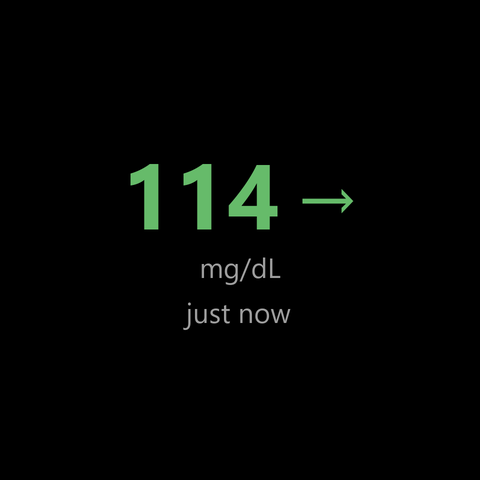
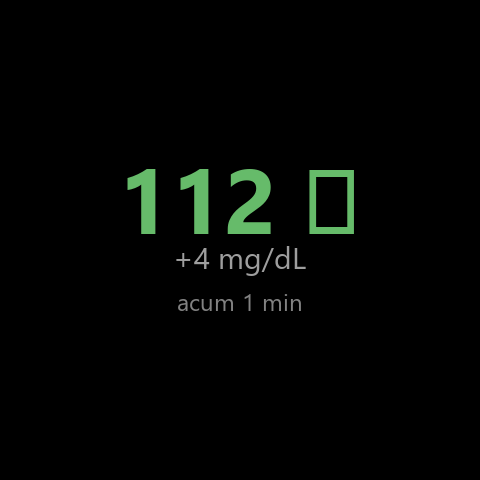
feat(site): showcase glucose delta across widgets, tile, and complication

Changed region(s): [[0.375, 0.3438, 0.625, 0.6875], [0.625, 0.3438, 0.75, 0.5], [0.25, 0.3438, 0.3438, 0.5]]

diff --git a/site/index.html b/site/index.html
@@ -1229,6 +1229,7 @@
       <div class="hero-features-chips">
         <span class="chip-item">🔒 Fără internet (<strong>Local 100%</strong>)</span>
         <span class="chip-item">⚡ Push instant (<strong>Baterie protejată</strong>)</span>
+        <span class="chip-item">📈 Variație Delta (<strong>+ / - configurabil</strong>)</span>
         <span class="chip-item">🆓 Gratuit &amp; <strong>Open Source (GPL)</strong></span>
       </div>
 
@@ -1329,10 +1330,10 @@
           <h3 data-lang="ro">1. Complicație pe Cadran</h3>
           <h3 data-lang="en">1. Watch Face Complication</h3>
           <p data-lang="ro">
-            Adaugă slotul „Glucose” pe cadranul tău preferat pentru a vedea valoarea și săgeata de trend de fiecare dată când ridici încheietura.
+            Adaugă slotul „Glucose” pe cadranul tău preferat pentru a vedea glicemia, săgeata de trend și variația Delta (+ / -) de fiecare dată când ridici încheietura.
           </p>
           <p data-lang="en">
-            Add the "Glucose" complication to any slot on your favorite watch face for glanceable readings every time you check the time.
+            Add the "Glucose" complication to any slot on your favorite watch face for glanceable readings, trend arrow, and numeric Delta (+ / -) every time you check the time.
           </p>
         </div>
 
@@ -1343,10 +1344,10 @@
           <h3 data-lang="ro">2. Card Dedicat (Tile la un Swipe)</h3>
           <h3 data-lang="en">2. Dedicated Watch Tile</h3>
           <p data-lang="ro">
-            Glisează o singură dată de pe cadran pentru cardul CGM Glance cu cifre mari, colorate în funcție de țintă (verde, galben sau roșu).
+            Glisează o singură dată de pe cadran pentru cardul CGM Glance cu cifre mari, colorate în funcție de țintă, și variația recentă Delta (+4 mg/dL).
           </p>
           <p data-lang="en">
-            Swipe once from your watch face for high-contrast glucose numbers, colored by range (in-target green, high amber, low red).
+            Swipe once from your watch face for high-contrast glucose numbers, range colors, and recent Delta change (+4 mg/dL).
           </p>
         </div>
 
@@ -1357,10 +1358,10 @@
           <h3 data-lang="ro">3. Aplicație Completă pe Ceas</h3>
           <h3 data-lang="en">3. Full Watch App</h3>
           <p data-lang="ro">
-            Apasă pe complicație sau pe card pentru a deschide ecranul detaliat cu sursa senzorului, unitatea mg/dL și minutele de la citire.
+            Apasă pe complicație sau pe card pentru a deschide ecranul detaliat cu valoarea, trendul, variația Delta și vechimea exactă a citirii.
           </p>
           <p data-lang="en">
-            Tap the complication or tile to open the full watch view with sensor origin, mg/dL unit, and reading timestamp.
+            Tap the complication or tile to open the full watch view with glucose value, trend arrow, Delta change, and exact reading timestamp.
           </p>
         </div>
       </div>
@@ -1391,10 +1392,10 @@
           <h3 data-lang="ro">Widget-uri pe Ecranul Principal</h3>
           <h3 data-lang="en">Home Screen Widgets</h3>
           <p data-lang="ro">
-            Culori dinamice pentru valori în țintă, hiper sau hipoglicemie, cronometru live de la citire și dimensionare flexibilă.
+            Valoare mare, săgeată de trend, variație numerică Delta (+4 mg/dL), cronometru live de la citire și culori dinamice pentru valori în țintă sau alerte.
           </p>
           <p data-lang="en">
-            Range-colored readings with calculated trend arrows and a live reading-age timer right on your Android home screen.
+            Range-colored readings with calculated trend arrows, signed Delta change (+4 mg/dL), and a live reading-age timer right on your home screen.
           </p>
         </div>
 
@@ -1548,8 +1549,8 @@
           </div>
           <div class="guide-tip">
             💡 <strong><span data-lang="ro">Sfat:</span><span data-lang="en">Tip:</span></strong>
-            <span data-lang="ro"> Sloturile mai late (de tip <em>Text lung</em> sau <em>Bară de progres</em>) afișează atât valoarea și săgeata de trend, cât și minutele de la citire.</span>
-            <span data-lang="en"> Wider complication slots (<em>Long text</em> or <em>Ranged value</em>) show the glucose value, trend arrow, and reading age together.</span>
+            <span data-lang="ro"> Sloturile mai late (de tip <em>Text lung</em>) afișează valoarea, săgeata de trend și variația Delta (ex: <code>112 ↗ (+4)</code>). Sloturile mici rotunde afișează compact <code>112↗</code>.</span>
+            <span data-lang="en"> Wider complication slots (<em>Long text</em>) display the glucose value, trend arrow, and Delta change (e.g. <code>112 ↗ (+4)</code>). Smaller slots display cleanly as <code>112↗</code>.</span>
           </div>
           <!-- Bottom Navigation Walkthrough -->
           <div class="guide-nav-footer">
@@ -1589,8 +1590,8 @@
           </div>
           <div class="guide-tip">
             💡 <strong><span data-lang="ro">Sfat:</span><span data-lang="en">Tip:</span></strong>
-            <span data-lang="ro"> Atinge valoarea de pe cardul Tile pentru a deschide direct aplicația completă pe ceas.</span>
-            <span data-lang="en"> Tap the reading on the tile anytime to open the full watch app screen.</span>
+            <span data-lang="ro"> Cardul Tile afișează numere mari și variația recentă Delta (+4 mg/dL). Atinge valoarea pentru a deschide aplicația completă cu vechimea citirii.</span>
+            <span data-lang="en"> The dedicated Tile displays large numbers and recent Delta change (+4 mg/dL). Tap anytime to open the full app with reading age.</span>
           </div>
           <!-- Bottom Navigation Walkthrough -->
           <div class="guide-nav-footer">
@@ -1630,8 +1631,8 @@
           </div>
           <div class="guide-tip">
             💡 <strong><span data-lang="ro">Sfat:</span><span data-lang="en">Tip:</span></strong>
-            <span data-lang="ro"> Poți redimensiona liber widget-ul trăgând de margini — fontul și detaliile se adaptează automat la spațiul disponibil.</span>
-            <span data-lang="en"> Freely resize the widget by dragging its borders — typography and layout adapt automatically.</span>
+            <span data-lang="ro"> Widget-ul afișează valoarea, săgeata de trend, variația semnată Delta (+4 mg/dL) și minutele de la citire. Poți redimensiona liber widget-ul trăgând de margini.</span>
+            <span data-lang="en"> The widget displays glucose value, trend arrow, signed Delta change (+4 mg/dL), and elapsed minutes. Freely resize by dragging borders.</span>
           </div>
           <!-- Bottom Navigation Walkthrough -->
           <div class="guide-nav-footer">
@@ -1687,6 +1688,18 @@
           </p>
           <p data-lang="en">
             Pure event-driven push architecture. Updates are triggered only when the official sensor notification changes. Zero battery waste.
+          </p>
+        </div>
+
+        <div class="feature-box">
+          <div class="feature-icon-badge">📈</div>
+          <h3 data-lang="ro">Variație Numerică Delta (+ / -)</h3>
+          <h3 data-lang="en">Signed Glucose Delta (+ / -)</h3>
+          <p data-lang="ro">
+            Calculează automat magnitudinea schimbării față de o citire anterioară. Intervalul este reglabil din setări (5, 10, 15 sau 20 de minute, implicit 10 min) și apare pe widget și pe ceas.
+          </p>
+          <p data-lang="en">
+            Calculates exact rate-of-change magnitude compared to a previous reading. Configurable window in settings (5, 10, 15, or 20 minutes, 10 min default) across widgets and watch.
           </p>
         </div>
 
